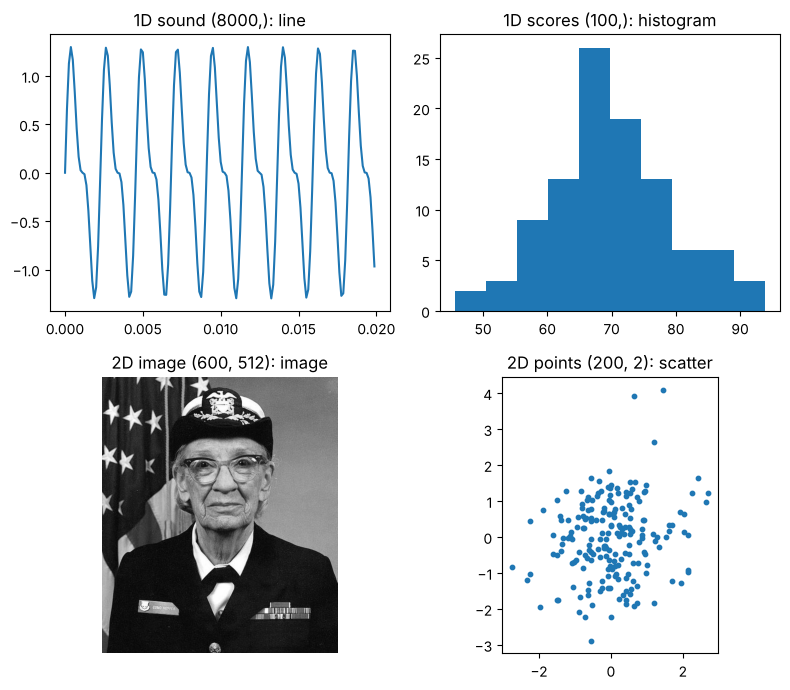
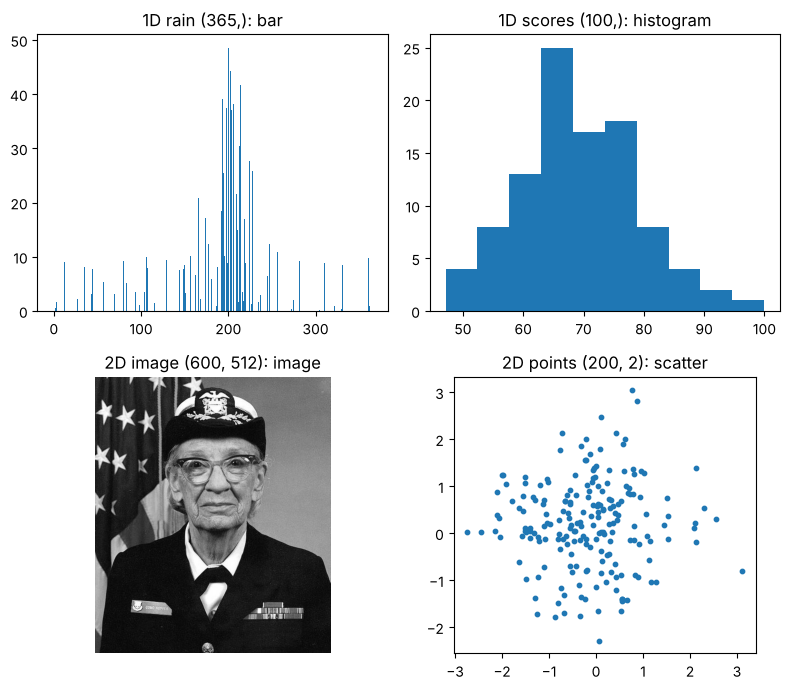
00-03: 1차원 예시를 소리에서 일별 강수량으로 바꾸기
샘플, 샘플링 레이트, Hz 같은 새 개념 없이 1차원을 보여주려고 1년 일별 강수량 (365,)을 막대그래프로 그린다.

Claude-Session: https://claude.ai/code/session_01GZi5QrXPsTEKX5x32CWTk9

diff --git a/docs/00-시작하기/index.md b/docs/00-시작하기/index.md
@@ -8,4 +8,4 @@ Colab 사용법, GPU 확인, 텐서 기초
 | --- | --- | --- |
 | [00-01 Colab 시작하기](01-colab-시작하기.md) | 학습형 | Colab 열기, GPU 켜기, 첫 셀 실행 |
 | [00-02 텐서 기초](02-텐서-기초.md) | 학습형 | 텐서 만들기, 모양 바꾸기, 연산, GPU로 옮기기 |
-| [00-03 텐서에 담기는 데이터](03-텐서에-담기는-데이터.md) | 설명형 | 소리, 이미지, 영상을 텐서로 담고 알맞은 그래프로 그리기 |
+| [00-03 텐서에 담기는 데이터](03-텐서에-담기는-데이터.md) | 설명형 | 강수량, 이미지, 영상을 텐서로 담고 알맞은 그래프로 그리기 |
